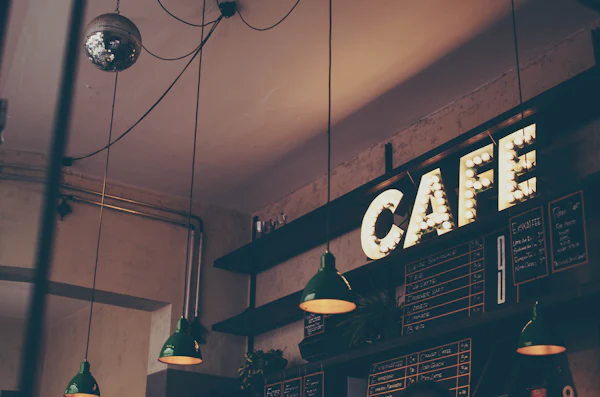
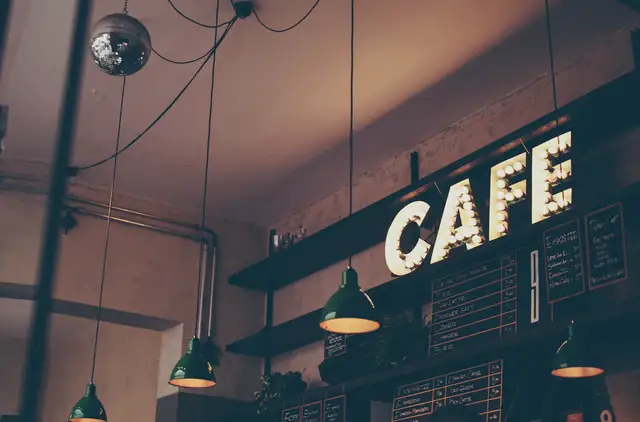
Optimize mobile hero to ultra-fast 16KB WebP and defer Google Fonts to idle

diff --git a/src/app/layout.tsx b/src/app/layout.tsx
@@ -185,15 +185,10 @@ export default function RootLayout({
           media="(min-width: 769px)"
           fetchPriority="high"
         />
-        {/* Non-render-blocking optimized Google Fonts with display=optional to prevent late LCP font swaps */}
-        <link
-          rel="preload"
-          as="style"
-          href="https://fonts.googleapis.com/css2?family=Playfair+Display:wght@700&family=Source+Sans+3:wght@400;600&display=optional"
-        />
+        {/* Non-render-blocking optimized Google Fonts loaded during browser idle */}
         <script
           dangerouslySetInnerHTML={{
-            __html: "(function(){var l=document.createElement('link');l.rel='stylesheet';l.href='https://fonts.googleapis.com/css2?family=Playfair+Display:wght@700&family=Source+Sans+3:wght@400;600&display=optional';document.head.appendChild(l);})();",
+            __html: "(function(){function loadFonts(){var l=document.createElement('link');l.rel='stylesheet';l.href='https://fonts.googleapis.com/css2?family=Playfair+Display:wght@700&family=Source+Sans+3:wght@400;600&display=optional';document.head.appendChild(l);}if('requestIdleCallback' in window){requestIdleCallback(loadFonts,{timeout:3000});}else{window.addEventListener('load',loadFonts,{once:true});}})();",
           }}
         />
         <noscript>
